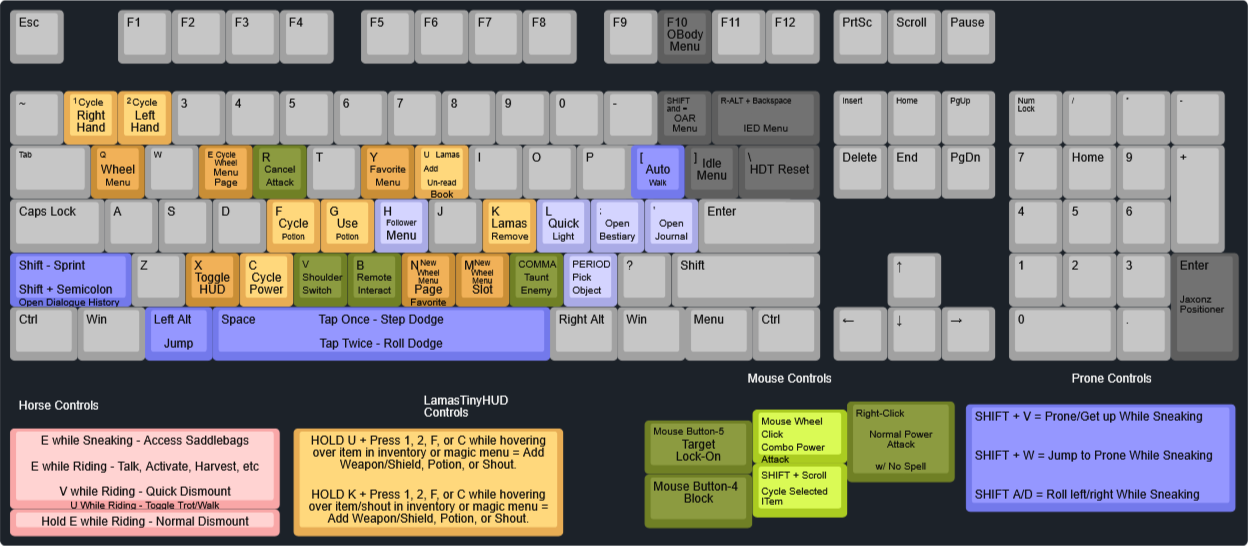
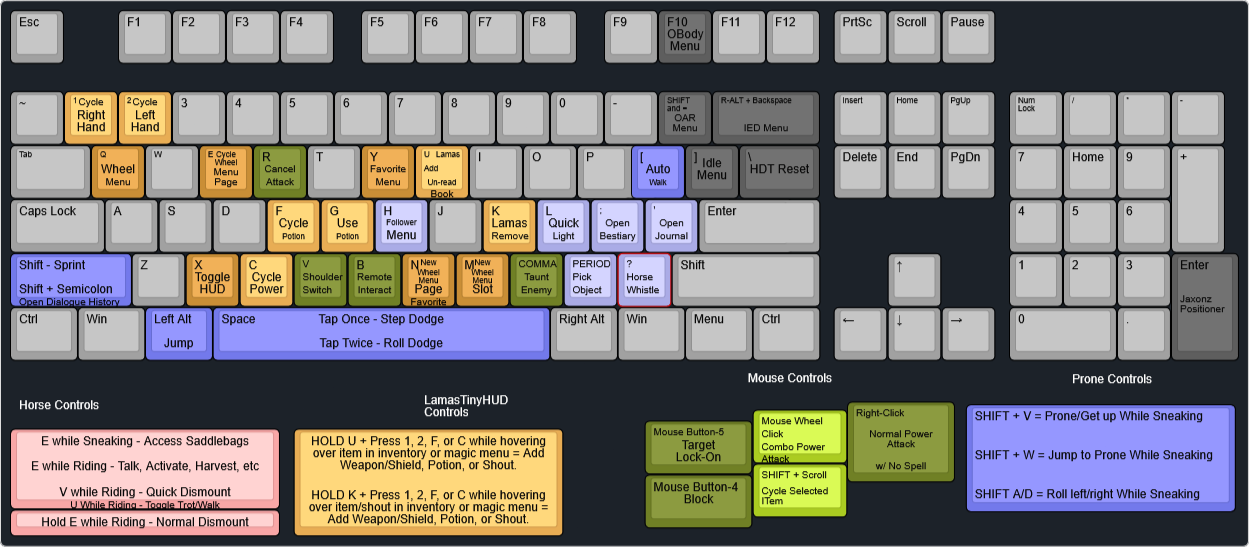
1.1.3

diff --git a/content/en/docs/Other Info/changelog.md b/content/en/docs/Other Info/changelog.md
@@ -14,6 +14,50 @@ Basic conflict resolution when adding a mod is generally not included here, ever
 
 To view the full patch notes for a version, click the **Detailed Changelog** option below the version notes.
 
+## v1.1.3 - **5/11/2025**
+
+This version is **SAVE SAFE!** You should have no issues playing this version with saves created post version 1.1.
+
+<details>
+
+**<summary>Detailed Changelog</summary>**
+
+<br>
+
+### Added
+
+- Wheeler - CheckWheelerOpen Function
+- Miscellaneous Quests are Favors
+- Pieces of the Past Alternate Ending
+- Khajiit Will Follow - Makara Becomes Healthy
+- Before the End
+- DMCO Dodge Framework - Skyrim Souls and Wheeler Patch
+
+### Updated
+
+- RUGNAROK 2K - 1.1 > 1.1.1
+- Interesting NPCs - Quest Requirement Tweaks - 1.2.1 > 1.3
+- Khajiit will Follow - 4.7.1 > 4.7.3
+- ZedPatch - 1.1.2 > 1.1.3
+- ZedPatch2 - 1.1.2 > 1.1.3
+- Weapon and Armor Balance - 1.1 > 1.1.3
+- Synthesis Output - 1.1.2 > 1.1.3
+- Overwrite Misc - 1.1.2 > 1.1.3
+- MCM Recorder - Keyboard Keybinds - 1.1.2 > 1.1.3
+- MCM Recorder - Controller Keybinds - 1.1.2 > 1.1.3
+
+### Fixes
+
+- Corrected keybind conflict with Horse Whistle and Object Manipulation Overhaul, whistle changed to `? /`. Fixed for controller as well, however horse whistle is still double-tap DPAD DOWN.
+- Ma'Kara from Khajiit Will Follow will now stop grabbing her head in pain once her quest is completed.
+- Expand triggerbox around The Braidwood Inn for 3DNPC "A Rose Without Thorns" quest.
+- Corrected world hole on the north side of the Jarl's Palace in Falkreath. [Fix #137](https://github.com/zediious/aurbaesence/issues/137)
+- Preventing dodging in menus and Wheeler, was a problem while using a controller.
+- Removed lamp post in front of the door to Granite Hill
+- Corrected wrong name on a pair of gauntlets
+
+</details>
+
 ## v1.1.2 - **5/4/2025**
 
 This version is **SAVE SAFE!** You should have no issues playing this version with saves created post version 1.1.

diff --git a/content/en/docs/Mandatory Reading/Gameplay Guide/importanthotkeys.md b/content/en/docs/Mandatory Reading/Gameplay Guide/importanthotkeys.md
@@ -258,6 +258,10 @@ Equip items to your right or left hand from the Wheel Menu with Left Click and R
 - Toggle trot/walk, changing the speed of the horse independently from CAPSLK
 - This can be changed in the Immersive Horses MCM
 
+### FORWARD SLASH / 
+
+- Whistle for your horse
+
 ## Misc
 
 ### PERIOD

diff --git a/content/en/docs/_index.md b/content/en/docs/_index.md
@@ -13,7 +13,7 @@ weight: 20
         A heavily curated Skyrim mod list, focused on elevating the game to a modern standard.
         <br>
         <br>
-        Current version: v1.1.2 - <b>5/4/2025</b>
+        Current version: v1.1.3 - <b>5/11/2025</b>
     </p>
 </div>
 
